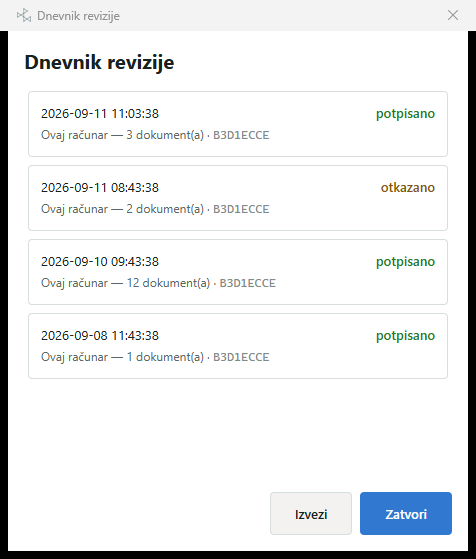
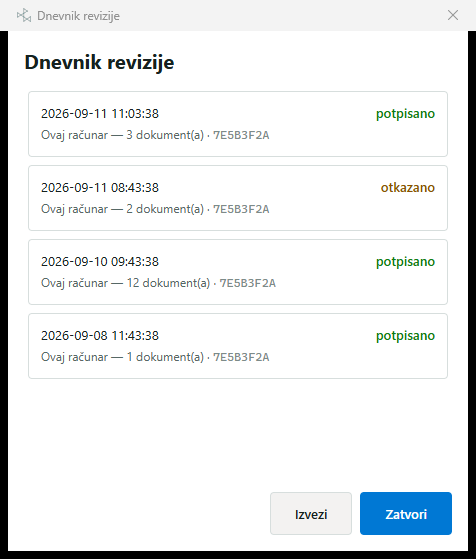
The audit-log figure shows the signer the rest of the guide invented
D-261 swept all eleven figures and found one carrying something real:
07-dnevnik.png showed B3D1ECCE on all four entries, which D-209 names as
the owner's own MUP certificate, three figures after the certificate
step shows the invented Ana Petrović and her invented 7E5B3F2A.

The reason to fix it is not disclosure — a thumbprint is public and
nothing bad happens if it stays. It is that every other figure in that
guide is an invention, and a stranger should meet one consistent fiction
rather than eight invented screens and one real person's certificate.

Four entries written through audit.Store.Append into a scratch profile,
which is the method D-093 used once already, and the window opened from
the tray by posting its own WM_COMMAND. Same four rows as the shipped
figure: same dates, same counts, three signed and one declined, which is
what the alt text describes. Only the certificate changed. The chain
verifies before the window opens, which is what keeps a discontinuity
notice off the figure.

Measured against the figure it replaces: 4,838 pixels differ by more
than 40 in any channel, and they sit in rows 131-138, 205-212, 279-286
and 353-360 — the four thumbprints — plus the button row. Everything
else is under 40, which is text antialiasing; the heading differs by a
maximum of 1. Comparing against the old figure offset by one pixel in
each of eight directions gives six to eight times as many strong
differences as no offset, so nothing moved.
[…]

diff --git a/docs/decisions.md b/docs/decisions.md
@@ -20263,3 +20263,121 @@ button in both languages, which is the trade [[D-242]] made and
   match an older screenshot is a figure that no longer matches the
   screen.
 - **Recapturing `07-dnevnik.png` in the same pass.** Above.
+
+---
+
+## D-262 — The audit-log figure is recaptured against an invented signer; the guide's fiction is now consistent, and the capture is a truer photograph than the ten beside it
+
+**Date:** 2026-09-13
+**Phase:** F10
+
+**What this closes.** [[D-261]] swept every figure in both guides and
+found one carrying something real: `07-dnevnik.png` showed `B3D1ECCE` on
+all four audit entries, which [[D-209]] names as the owner's own MUP
+certificate — three figures after the certificate step shows an invented
+signer with an invented thumbprint `7E5B3F2A`. It was reported and left.
+
+**The owner's reasoning for fixing it is worth keeping, because it is
+not the one the entry assumed.** A certificate thumbprint is public
+information and nothing bad happens if it stays. What is wrong is that
+*every other figure in that guide is an invention* — Ana Petrović, her
+three documents, her folder — and a stranger reading it should meet one
+consistent fiction rather than eight invented screens and one real
+person's certificate. The defect is inconsistency, not disclosure.
+
+### How it was recaptured
+
+Four entries written into a scratch profile's audit store — the method
+[[D-093]] already used once, to photograph the four outcome colours —
+and the window then opened from the tray by posting its own
+`WM_COMMAND`, which is a window message and not synthetic input
+([[D-094]]).
+
+The entries are **the shipped figure's own four rows**: same dates, same
+counts, same outcomes, three signed and one declined, which is what the
+guide's alt text describes (*"ishod potpisano ili otkazano"*). Only the
+certificate changed. The thumbprint is forty uppercase hexadecimal
+characters ending in the eight the certificate step shows, because those
+eight are the whole of what reaches the window
+(`auditThumbprintTail`) and the rest has to look like what a SHA-1
+thumbprint looks like.
+
+The chain was written through `audit.Store.Append` rather than by
+hand, so it is a real chain: `audit.Verify` reports it intact before the
+window is opened, which is what keeps a discontinuity notice
+([[D-166]]) off the figure.
+
+### What differs from the figure it replaces, measured rather than eyeballed
+
+Both are 476 × 559. Differences by magnitude, against the shipped
+figure:
+
+| | |
+|---|---|
+| pixels differing at all | 15 100 of 266 084 (5.7%) |
+| pixels differing by more than 40 in any channel | 4 838 |
+| where those are | rows 131-138, 205-212, 279-286, 353-360 — **the four thumbprints** — and the button row |
+| everything else | ≤ 40, which is text antialiasing; the heading differs by a maximum of **1** |
+
+No positional shift: comparing against the old figure offset by one
+pixel in each of eight directions gives six to eight times as many
+strong differences as no offset at all, so the layout is identical and
+only the ink moved.
+
+### Two things the recapture had to get right that nobody had written down
+
+**The title bar.** The first capture came out with an *active* frame —
+`(238,244,249)` — because a window opened from the tray takes the
+foreground itself. Every one of the guide's other nine window figures
+has an inactive frame, `(243,243,243)`, measured across all of them;
+they were taken by a harness that held the foreground, which is
+[[D-122]]'s whole point about `PrintWindow`. The window is now sent
+`WM_NCACTIVATE(FALSE)` — the message Windows itself sends when a window
+loses activation — so it paints its frame the way it does when a
+person's attention is elsewhere, which is how the other nine look.
+
+**The primary button is a different blue from the other figures', and
+this one is the correct blue.** Measured: every shipped figure with a
+primary button renders it `(48,120,208)`; this capture renders
+`(0,120,212)`, which is `#0078d4` exactly — `--liro-color-brand` in
+`internal/ui/assets/tokens.css`. The same pixel count, 3 661, in both.
+
+The cause was chased far enough to rule out the obvious: no PNG carries
+a colour-profile chunk, none is palettised (all are 8-bit truecolour),
+and the difference is not activation — both of this session's captures
+gave `(0,120,212)`, active and inactive alike. So the shipped figures
+went through some path that shifted the value and this one does not.
+
+**It is not corrected to match**, and that is deliberate. Editing a
+screenshot so it agrees with other screenshots produces a figure that is
+a photograph of nothing. What ships is a straight `PrintWindow` capture
+of the program rendering its own token colour. The consequence is worth
+stating plainly for whoever recaptures the next figure: **every figure
+taken this way will differ slightly in that one blue from the ones taken
+before**, until they are all retaken. It is a saturation shift in one
+button, in a document where no two figures are ever on screen together.
+
+### The sweep's result, restated
+
+Eleven figures. **Ten now carry one consistent invention and one
+(`11-smartscreen-vise-informacija.png`) carries the real 0.9.0 file
+name, which is the point of that one.** Nothing in any figure names a
+real person, a real path, or a version that has not existed.
+
+### Rejected
+
+- **Changing the dates, counts or outcomes while recapturing.** The
+  figure's four rows already tell a coherent story — three signed
+  batches and one declined, the most recent of three documents, which is
+  the batch figures 02, 05 and 06 follow. Reinventing them would have
+  made the diff unreadable and proved nothing.
+- **Adding a signature-level line to the entries.** `AchievedLevel` is
+  rendered when set ([[D-095]]), and setting it would add a line to
+  every row that the shipped figure does not have and the alt text does
+  not describe. A recapture is not the place to redesign a figure.
+- **Post-processing the blue to match the other ten.** Above.
+- **Recapturing all eleven so the blue agrees everywhere.** It would
+  make them consistent and it is a much larger change than the one
+  asked for, on figures that are otherwise correct — and it would need
+  the whole signing flow driven by hand to reproduce the five that show
+  it.
